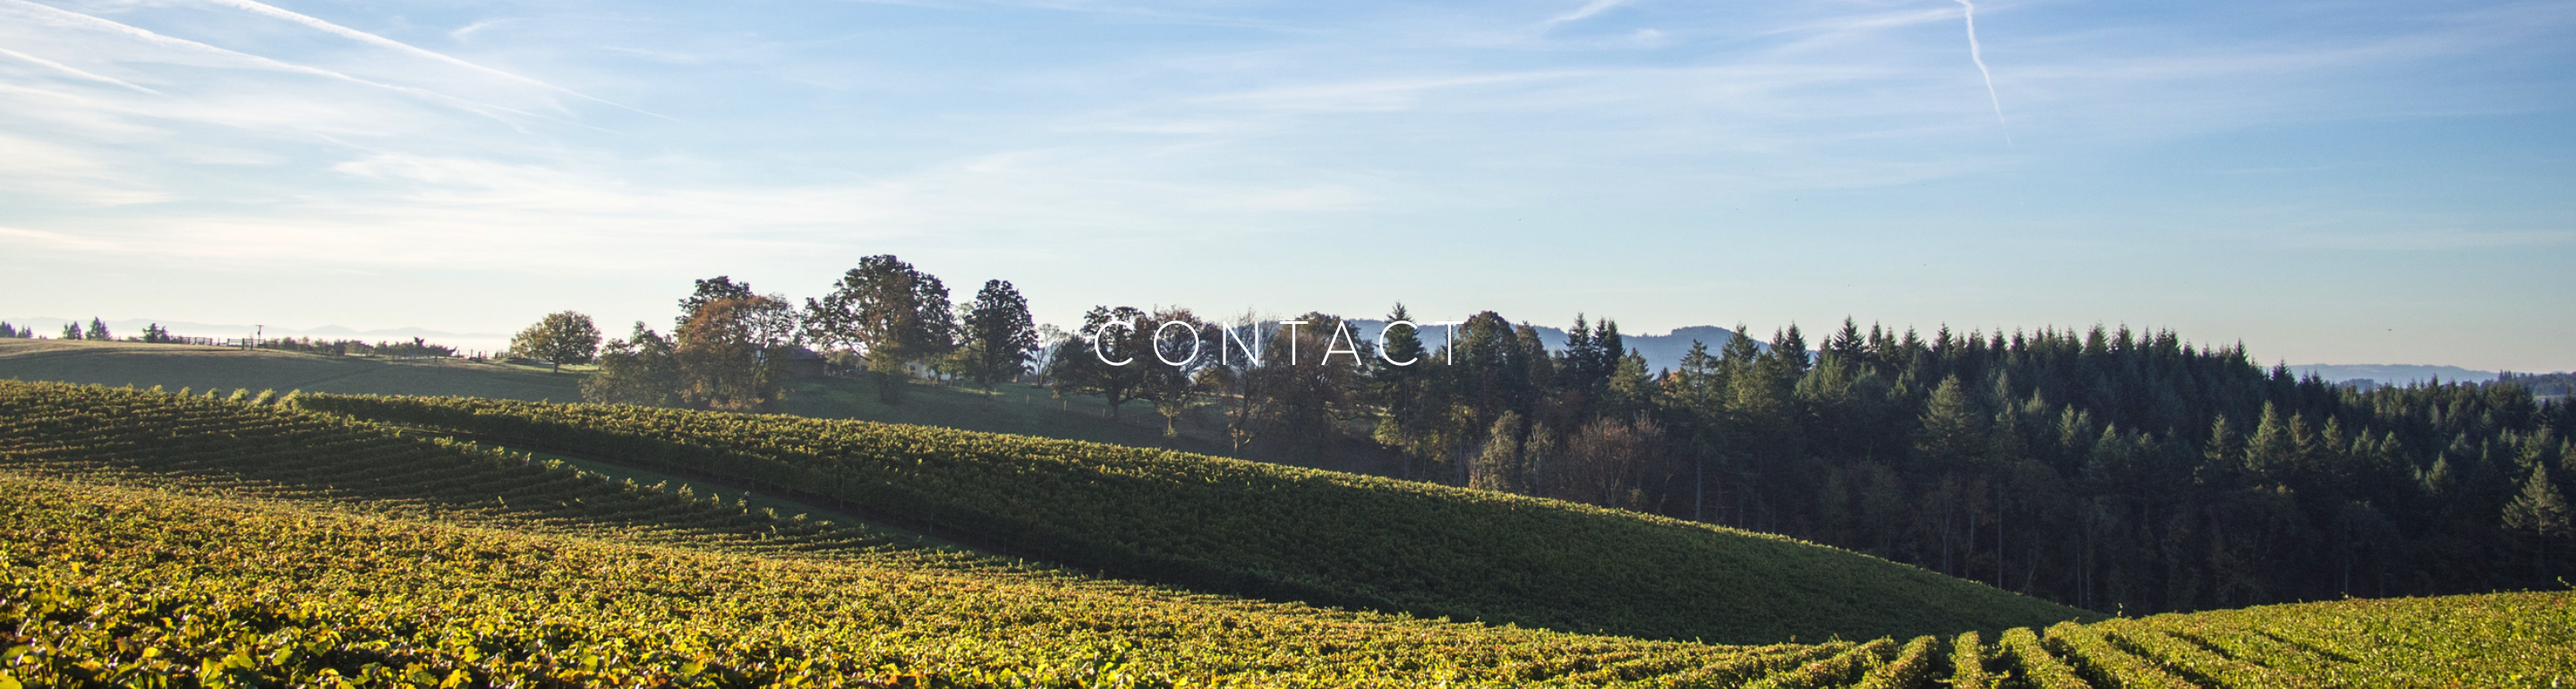
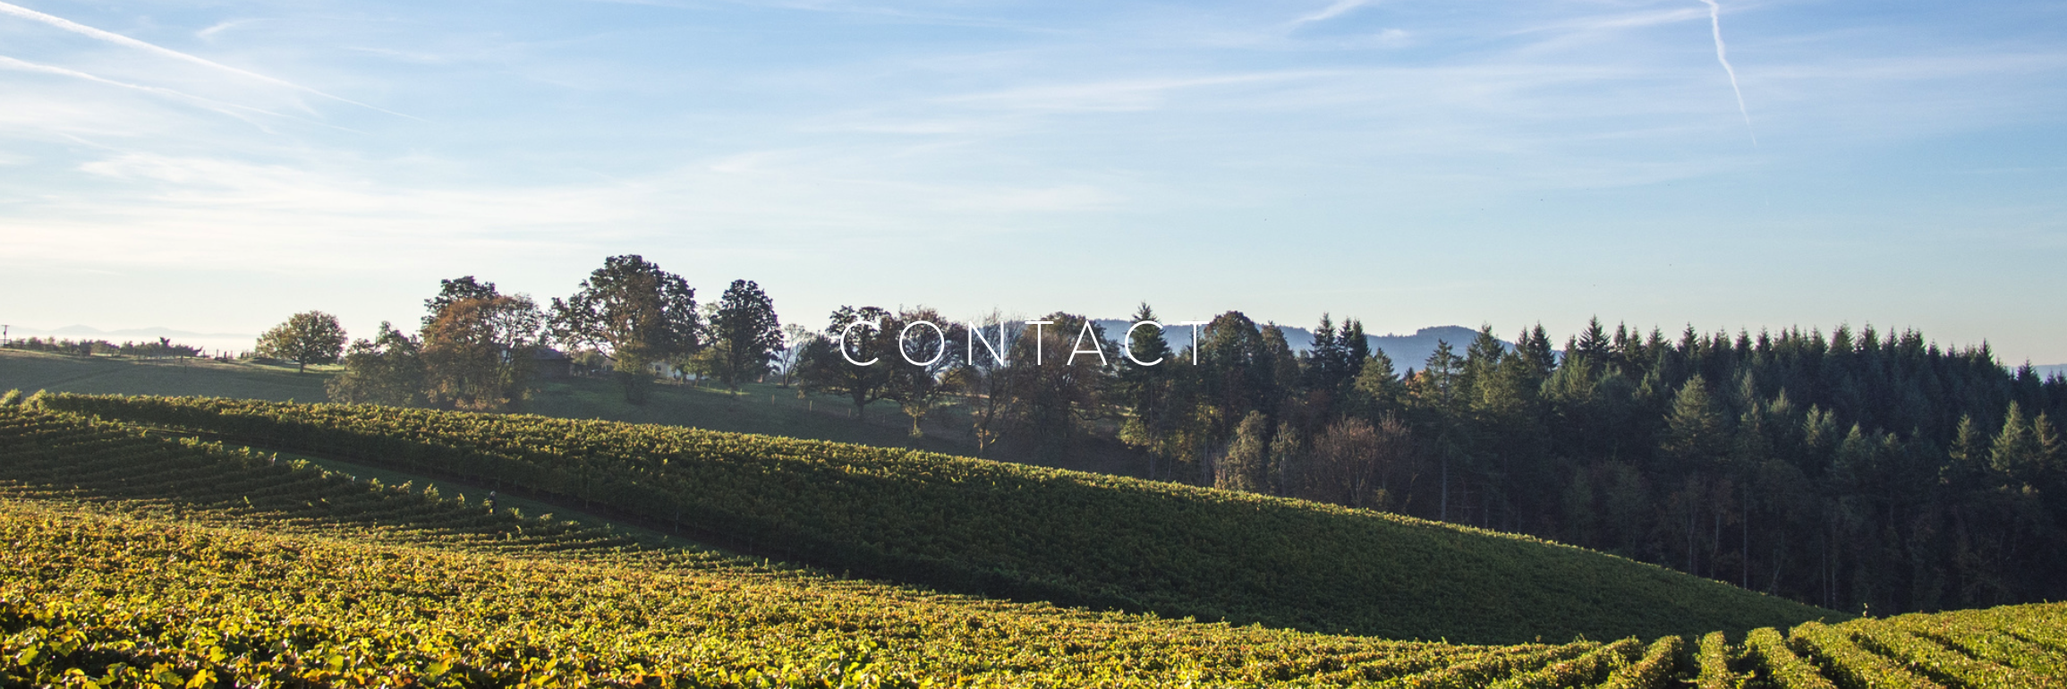
changes of forms

diff --git a/files/CSS/stylesheet1.css b/files/CSS/stylesheet1.css
@@ -60,7 +60,7 @@ margin : 0px;
 }
 #container img{
     width: 100%;
-    height: 100%;
+ 
     position: absolute;
 }
 #container > .btn{
@@ -215,24 +215,24 @@ form div + div {
   margin-top: 1em;
 }
 
+
 label {
   /* To make sure that all labels have the same size and are properly aligned */
   display: inline-block;
   width: 90px;
-  text-align: right;
+  text-align: left;
 }
 
 input, textarea {
-  /* To make sure that all text fields have the same font settings
-     By default, textareas have a monospace font */
-  font: 1em sans-serif;
+        width: 100%; 
+    padding: 12px;  
+    border: 1px solid #ccc; 
+    border-radius: 4px; 
+    box-sizing: border-box; 
+    margin-top: 6px; 
 
-  /* To give the same size to all text fields */
-  width: 300px;
-  box-sizing: border-box;
+    resize: vertical 
 
-  /* To harmonize the look & feel of text field border */
-  border: 1px solid #999;
 }
 
 input:focus, textarea:focus {
@@ -240,17 +240,29 @@ input:focus, textarea:focus {
   border-color: #000;
 }
 
-textarea {
-  /* To properly align multiline text fields with their labels */
-  vertical-align: top;
+#msg{
+       width: 100%; 
+       height:15em;
+    padding: 12px;  
+    border: 1px solid #ccc; 
+    border-radius: 4px; 
+    box-sizing: border-box; 
+    margin-top: 6px; 
+    margin-bottom: 16px; 
+    resize: vertical
+   
 
-  /* To give enough room to type some text */
-  height: 5em;
 }
 
 .button10 {
+
+    border-color: #FFFFFF;
+    background-color: #861710;
+    color:#FFFFFF;
+    margin-left:200px;
+
   
-    margin-left: 175px;
+    /*margin-left: 175px;
     background-color: #f3efef; 
     font-size: 20px;
     color: #a07575;
@@ -260,54 +272,57 @@ textarea {
     text-align: center;
     text-decoration: none;
     display: inline-block;
-    font-size: 16px;
+    font-size: 16px;*/
 
 }
 
  /* order form*/ 
-.form1 label {
-    margin-left :35px;
+.form label {
+
+      text-align: left;
 }
-.form1 input[type=text], select, textarea {
-    width: 90%; 
+.form input[type=text], select, textarea {
+    width: 100%; 
     padding: 12px;  
     border: 1px solid #ccc; 
     border-radius: 4px; 
     box-sizing: border-box; 
     margin-top: 6px; 
     margin-bottom: 16px; 
-    margin-left:80px;
     resize: vertical 
 }
 
-.form1 input[type=number] {
-    width: 90%; 
+.form input[type=number] {
+    width: 100%; 
     padding: 12px;  
     border: 1px solid #ccc; 
     border-radius: 4px; 
     box-sizing: border-box; 
     margin-top: 6px; 
     margin-bottom: 16px; 
-    margin-left:80px;
     resize: vertical; 
 
 }
 
-.form1 input[type=submit] {
-    background-color: #4CAF50;
+.form input[type=submit] {
+     width: 100%; 
+    background-color: #861710;
     color: white;
     padding: 12px 20px;
     border: none;
     border-radius: 4px;
     cursor: pointer;
-    float: left;
+    float: middle;
     position: relative;
-    left : 47%;
+
 }
 
 
-.form1 input[type=submit]:hover {
-    background-color: #45a049;
+.form input[type=submit]:hover {
+    background-color: #a07575;
 }
 
-
+.imageorders {
+width:100%;
+height:100%
+}

diff --git a/app.js b/app.js
@@ -1,33 +1,4 @@
-var MongoClient = require('mongodb').MongoClient
-  , assert = require('assert');
 
-// Connection URL
-var url = 'mongodb://essec:cergyisc00l@138.68.110.210.27017/admin?readPreference=primary';
-// Use connect method to connect to the Server
-MongoClient.connect(url, function(err, db) {
- // assert.equal(null, err);
-  console.log("Connected mongodb",err);
-
-  //insertDocuments(db, function() {
-   // db.close();
- // });
-
-router.post('/insert', function(req,res,next){
-    var item ={
-        email:req.body.email,
-        lastname: req.body.lastname,
-        firstname: req.body.firstname,
-        address: req.body.firstname,
-        choice: req.body.firstname,
-        quantity: req.body.firstname,
-    };
-    mongo.connect(url,function(err,db){
-        assert.equal(null,err);
-        db.collection('orderform').insertOne(item,function(err,result){
-            assert.equal(null.err);
-            console.log('Item Inserted');
-        });
-    });
 
 var express = require('express');
 var exphbs  = require('express-handlebars');

diff --git a/files/CSS/orders.css b/files/CSS/orders.css
@@ -6,8 +6,8 @@ padding : 0px;
 margin : 0px;
 }
 .imageorders {
-width: 100%; 
-height: 300px;
+width:100%;
+height:100%
 }
 #maindiv{
     width:100%;
